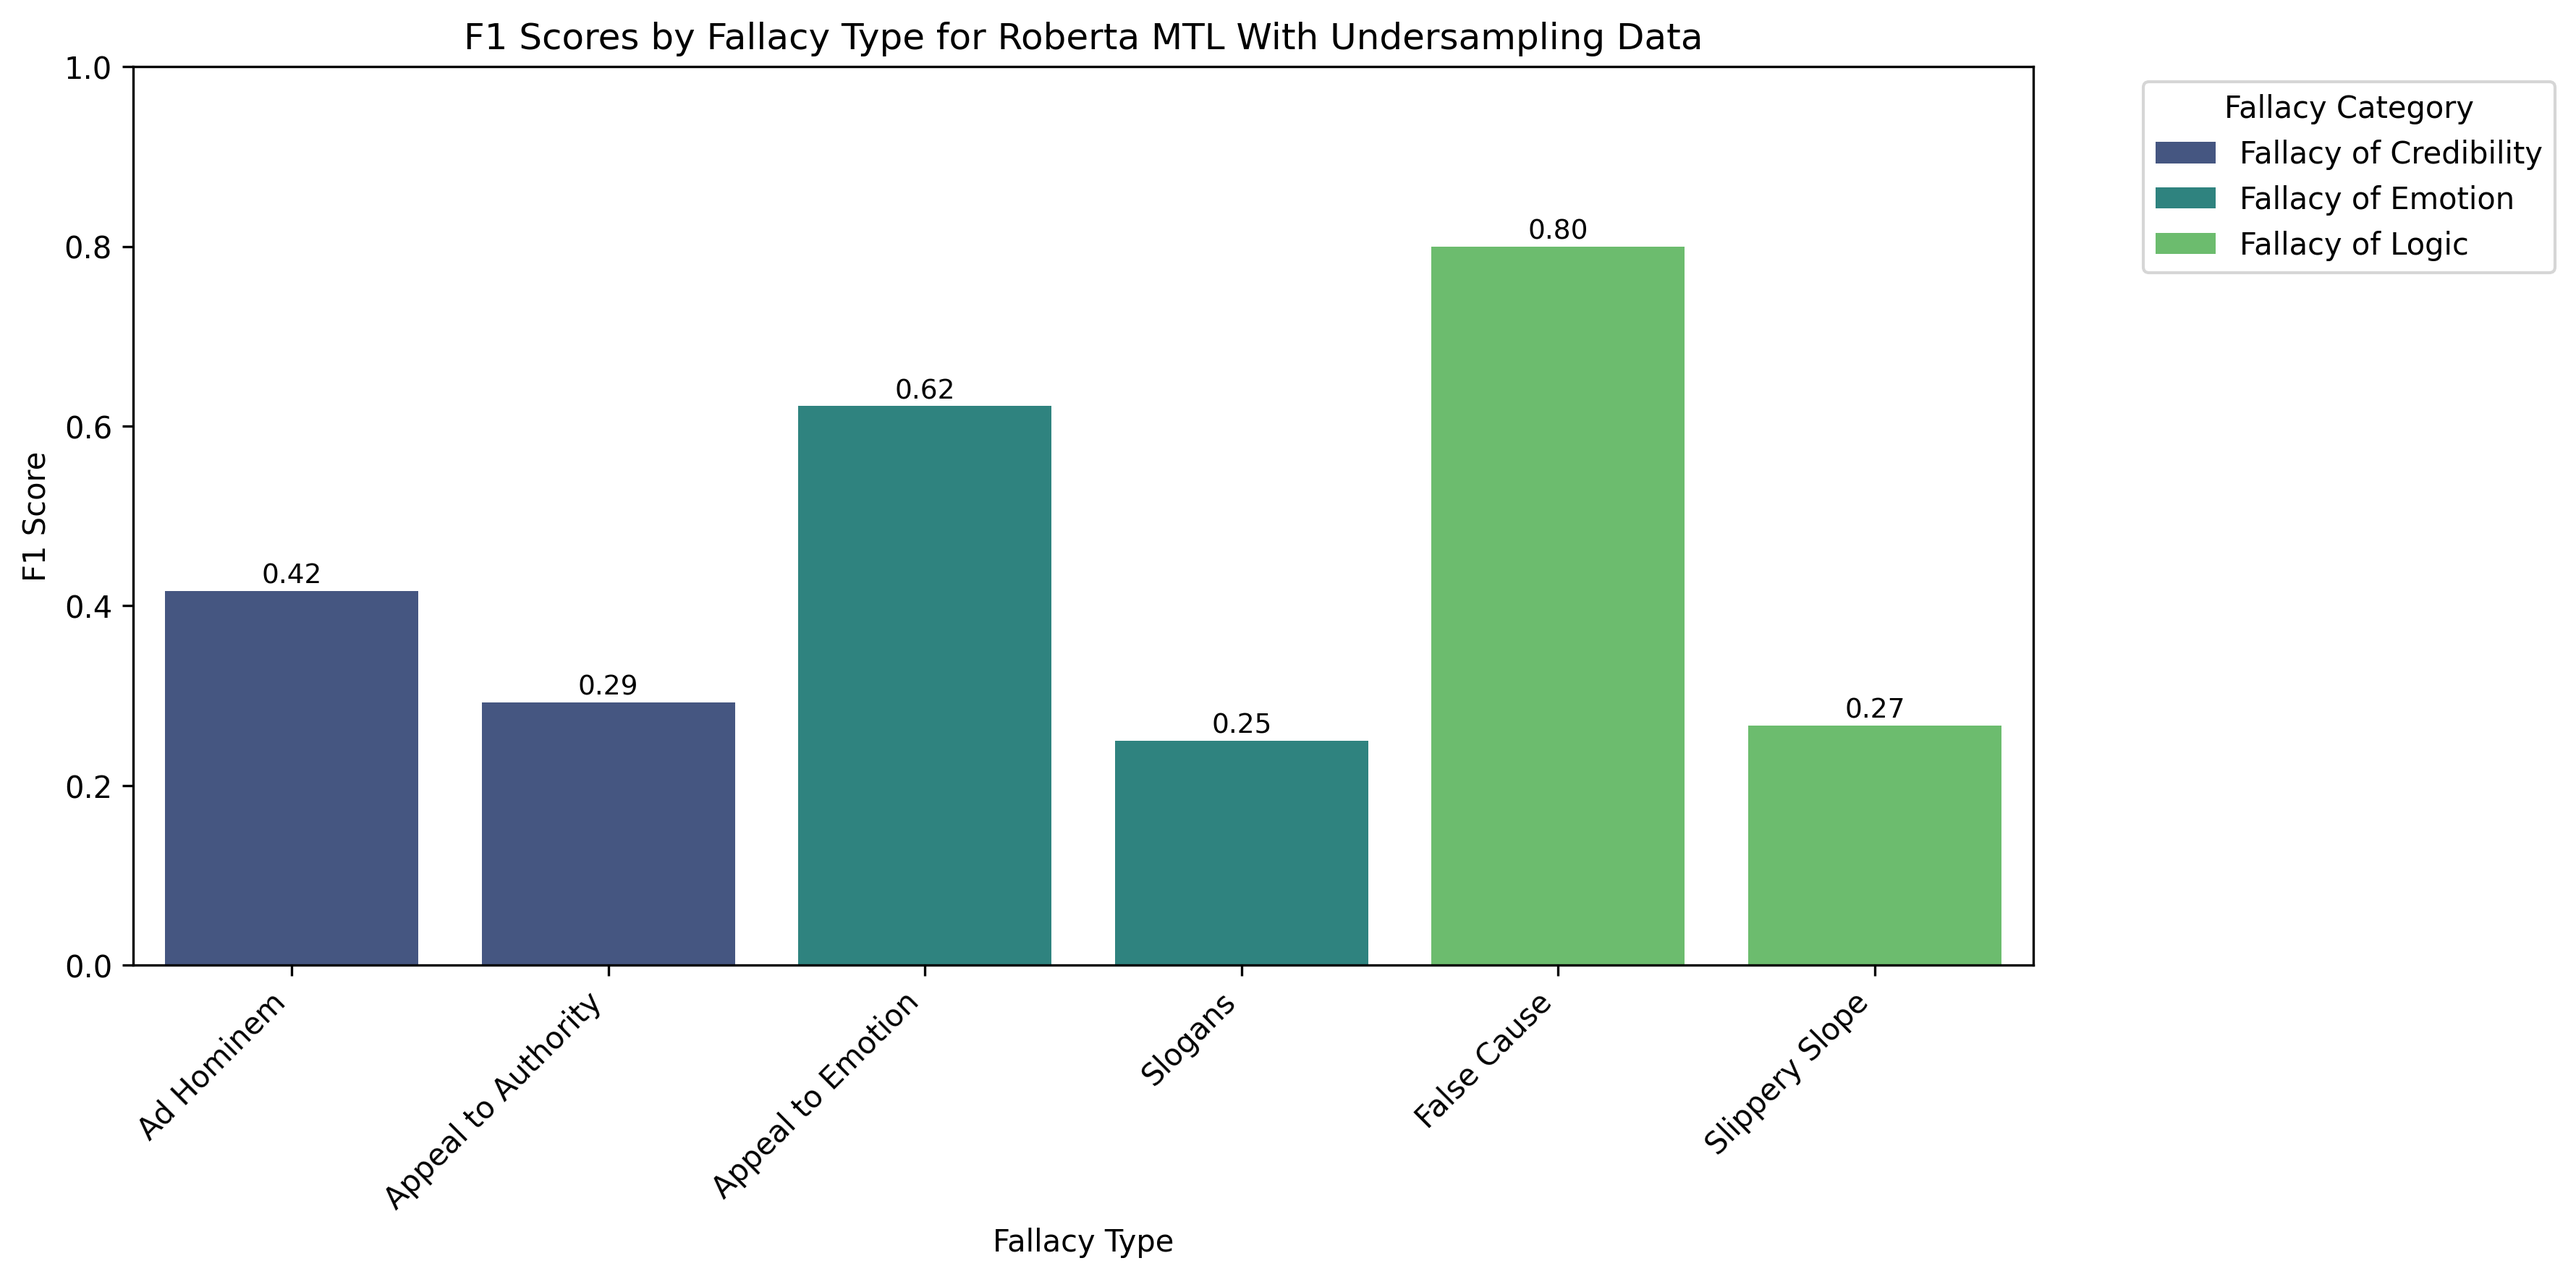
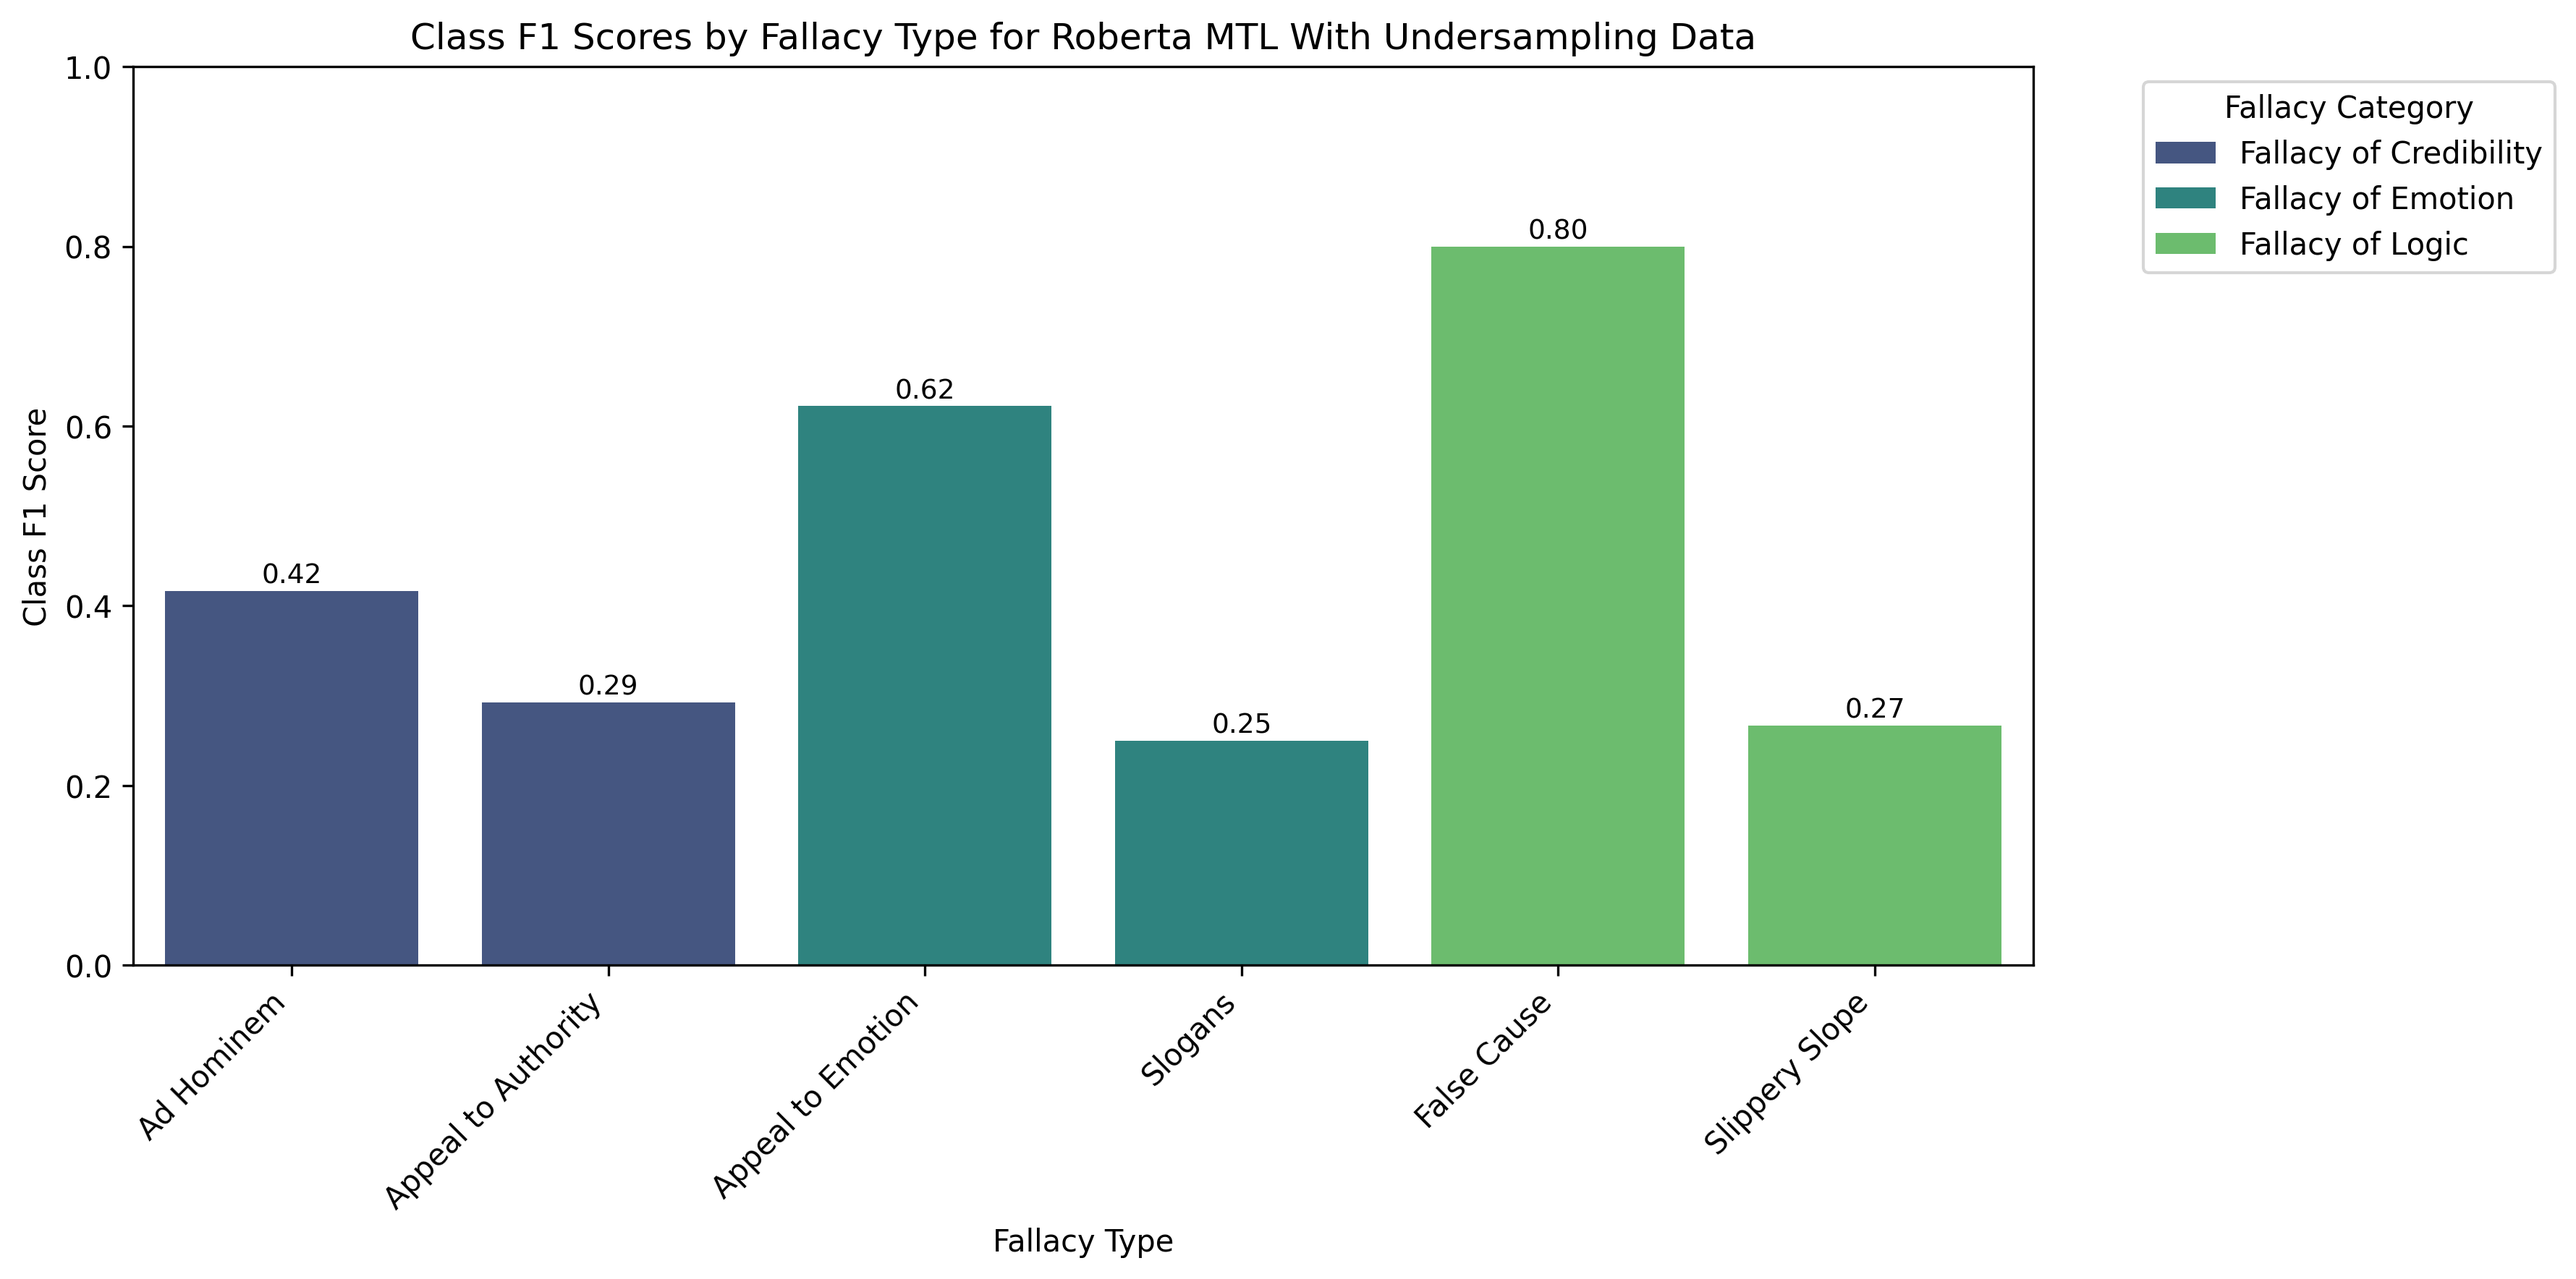
fixed arg parser

Changed region(s): [[0.1559, 0.0, 0.686, 0.0622], [0.0, 0.3422, 0.0312, 0.4044], [0.0, 0.4355, 0.0312, 0.4666]]

diff --git a/Model/test_eval.py b/Model/test_eval.py
@@ -13,6 +13,8 @@ from data.MM_USED_fallacy.MM_Dataset import MM_Dataset, HTC_MM_Dataset
 from Evaluation.HierarchicalEvaluator import HierarchicalEvaluator
 from Utils.utils import *
 
+def list_of_strings(arg):
+    return arg.split(',')
 
 def tokenize(data_batch, tokenizer, max_length=50):
     tokenized = tokenizer(data_batch, max_length = max_length, truncation=True, padding = "longest", return_tensors="pt")
@@ -170,9 +172,9 @@ def eval_model(job_id, bert_model_name = "DistilBert", head_type="MTL 6", augmen
 if __name__ == "__main__":
     parser = argparse.ArgumentParser(description='Plot metrics for fallacy detection')
     parser.add_argument('--job_id', type=str, help='JOB_ID of the folder where the trained models are stored')
-    parser.add_argument('--head_type_list', type=list, default=["MTL 6", "HTC", "STL"], help='List of heads types to test')
-    parser.add_argument('--augment_list', type=list, default=["None", "EDA", "LLM", "Undersample"], help='List of augmentation methods to test')
-    parser.add_argument('--bert_model_name_list', type=list, default=["DistilBert", "Bert", "Roberta"], help='List of bert models to test')
+    parser.add_argument('--head_type_list', type=list_of_strings, default="MTL 6,HTC,STL", help='List of heads types to test')
+    parser.add_argument('--augment_list', type=list_of_strings, default="None,EDA,LLM,Undersample", help='List of augmentation methods to test')
+    parser.add_argument('--bert_model_name_list', type=list_of_strings, default="DistilBert,Bert,Roberta", help='List of bert models to test')
     args = parser.parse_args()
 
     # Example usage

diff --git a/Final Results/plotting.py b/Final Results/plotting.py
@@ -258,9 +258,9 @@ def plot_class_f1s(class_f1s_df, filename):
     
 
     # Customize titles and labels
-    plt.title('F1 Scores by Fallacy Type for ' + str(bert_model_name) + ' ' + str(classification_model_name) + ' With ' + aug_name + ' Data')
+    plt.title('Class F1 Scores by Fallacy Type for ' + str(bert_model_name) + ' ' + str(classification_model_name) + ' With ' + aug_name + ' Data')
     plt.xlabel('Fallacy Type')
-    plt.ylabel('F1 Score')
+    plt.ylabel('Class F1 Score')
     plt.ylim(0, 1.0) 
 
     plt.xticks(rotation=45, ha='right')
